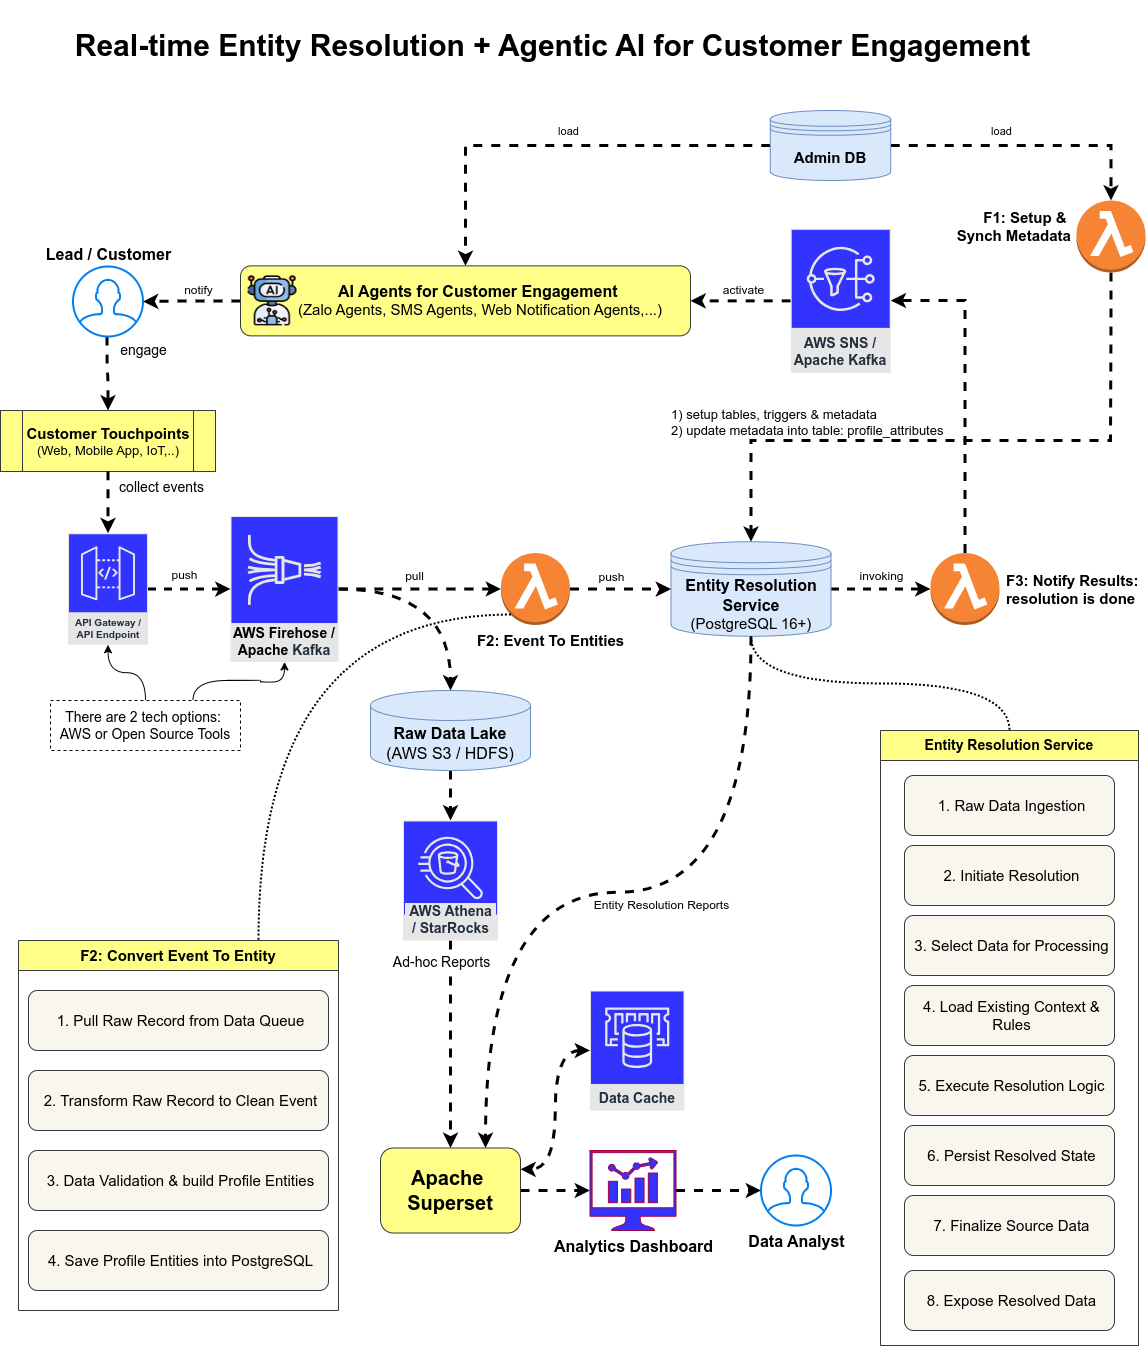
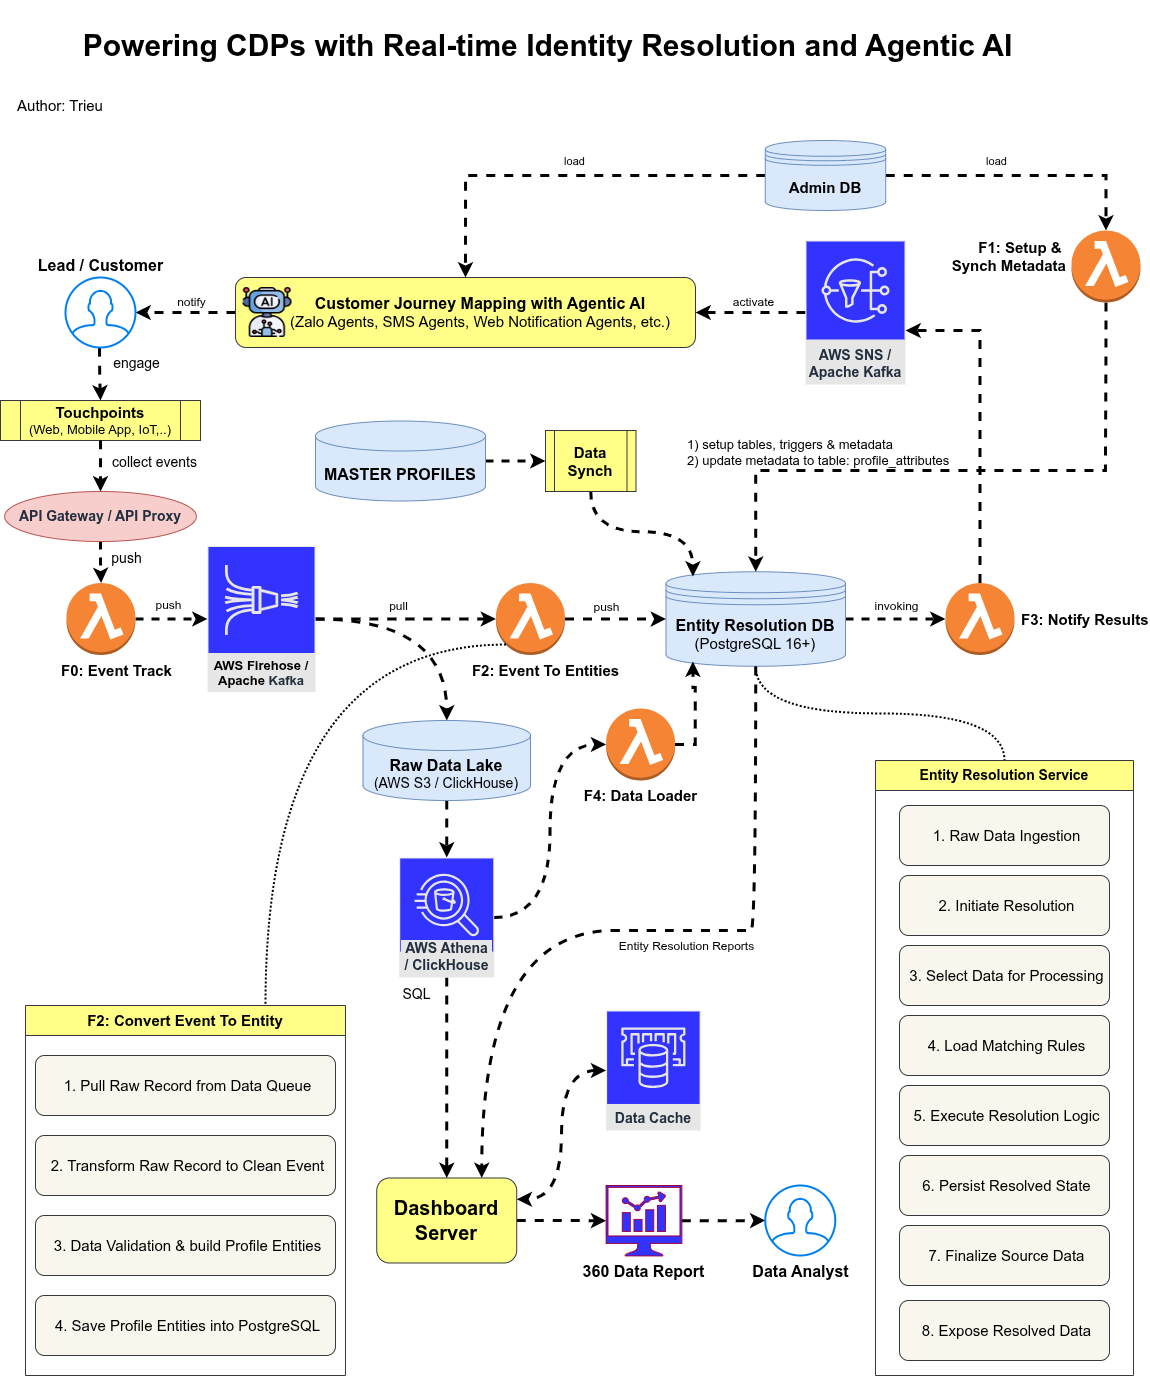
update load test script , refactoring code

diff --git a/f4_c360_event_loader/README.md b/f4_c360_event_loader/README.md
@@ -1,0 +1,1 @@
+# Customer 360 Event Loader

diff --git a/f5_c360_data_reports/README.md b/f5_c360_data_reports/README.md
@@ -1,0 +1,1 @@
+# Customer 360 Data Reports
